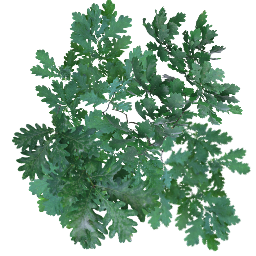
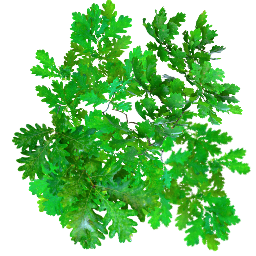
Текстурировал дерево

diff --git a/client/src/app/services/dream-map/objects/tree.ts b/client/src/app/services/dream-map/objects/tree.ts
@@ -6,7 +6,7 @@ import { TreeGeometry, TreeGeometryParams } from "@_models/three.js/tree.geometr
 import { DreamMapAlphaFogService } from "@_services/dream-map/alphaFog.service";
 import { DreamMapObjectTemplate } from "@_services/dream-map/objects/_base";
 import { NoizeShader } from "@_services/dream-map/shaders/noise";
-import { BufferGeometry, Clock, Color, DataTexture, DoubleSide, Float32BufferAttribute, FrontSide, Matrix4, Mesh, MeshLambertMaterial, MeshPhongMaterial, Object3D, PlaneGeometry, Ray, Shader, Texture, TextureLoader, Triangle, Vector3 } from "three";
+import { BufferGeometry, Clock, Color, DataTexture, DoubleSide, Float32BufferAttribute, FrontSide, LinearMipMapNearestFilter, Matrix4, Mesh, MeshStandardMaterial, Object3D, PlaneGeometry, Ray, Shader, sRGBEncoding, TangentSpaceNormalMap, Texture, TextureLoader, Triangle, Vector2, Vector3 } from "three";
 
 
 
@@ -25,8 +25,14 @@ export class DreamMapTreeObject extends DreamMapObjectTemplate implements DreamM
 
 
   private type: string = "tree";
-  private subType: string;
   private defaultMatrix: Matrix4 = new Matrix4();
+  private textureKeys: [keyof MeshStandardMaterial, string][] = [
+    ["map", "face"],
+    ["aoMap", "ao"],
+    ["lightMap", "light"],
+    ["normalMap", "normal"],
+    ["displacementMap", "displacement"]
+  ];
 
   private treeCount: number = 0;
   private leafCount: number = 0;
@@ -219,29 +225,48 @@ export class DreamMapTreeObject extends DreamMapObjectTemplate implements DreamM
     // Определить параметры
     else {
       const textureLoader: TextureLoader = new TextureLoader();
+      const textureData: (texture: Texture) => void = (texture: Texture) => {
+        texture.encoding = sRGBEncoding;
+        texture.minFilter = LinearMipMapNearestFilter;
+        texture.magFilter = LinearMipMapNearestFilter;
+      }
       // Параметры геометрии
       const objWidth: number = MathRound(this.width * this.widthPart, 4);
       const objHeight: number = MathRound((this.height * DreamCeilSize) * this.heightPart, 4);
       const leafSize: number = objWidth * 12;
       // Данные фигуры
       const treeGeometry: TreeGeometry[] = CreateArray(this.treeCount).map(() => new TreeGeometry(treeGeometryParams(objWidth, objHeight)));
-      const leafGeometry: PlaneGeometry = new PlaneGeometry(leafSize, leafSize, 1, 1);
-      const treeTexture: Texture = textureLoader.load("/assets/dream-map/object/tree/face/1-0.jpg");
-      const leafTexture: Texture = textureLoader.load("/assets/dream-map/object/tree/face/1-1.png");
-      const treeMaterial: MeshLambertMaterial = this.alphaFogService.getMaterial(new MeshLambertMaterial({
+      const leafGeometry: PlaneGeometry = new PlaneGeometry(leafSize, leafSize, 2, 2);
+      const treeTextures: CustomObjectKey<keyof MeshStandardMaterial, Texture> = this.textureKeys
+        .map(([key, path]) => ([key, textureLoader.load("/assets/dream-map/object/tree/" + path + "/1-0.jpg", textureData)]))
+        .reduce((o, [key, texture]) => ({ ...o, [key as keyof MeshStandardMaterial]: texture as Texture }), {});
+      const leafTextures: CustomObjectKey<keyof MeshStandardMaterial, Texture> = this.textureKeys
+        .map(([key, path]) => ([key, textureLoader.load("/assets/dream-map/object/tree/" + path + "/1-1.png", textureData)]))
+        .reduce((o, [key, texture]) => ({ ...o, [key as keyof MeshStandardMaterial]: texture as Texture }), {});
+      const treeMaterial: MeshStandardMaterial = this.alphaFogService.getMaterial(new MeshStandardMaterial({
         fog: true,
         side: FrontSide,
-        map: treeTexture
-      })) as MeshLambertMaterial;
-      const leafMaterial: MeshPhongMaterial = this.alphaFogService.getMaterial(new MeshPhongMaterial({
+        ...treeTextures,
+        aoMapIntensity: 0.5,
+        lightMapIntensity: 10,
+        roughness: 0.8,
+        normalMapType: TangentSpaceNormalMap,
+        normalScale: new Vector2(1, 1)
+      })) as MeshStandardMaterial;
+      const leafMaterial: MeshStandardMaterial = this.alphaFogService.getMaterial(new MeshStandardMaterial({
         fog: true,
         side: DoubleSide,
-        map: leafTexture,
         transparent: true,
-        alphaTest: 0.5,
-        aoMapIntensity: -5,
-        flatShading: true
-      })) as MeshPhongMaterial;
+        alphaTest: 0.7,
+        flatShading: true,
+        ...leafTextures,
+        aoMapIntensity: -0.5,
+        lightMapIntensity: 10,
+        roughness: 0.8,
+        normalMapType: TangentSpaceNormalMap,
+        normalScale: new Vector2(1, 1),
+        displacementScale: leafSize / 4
+      })) as MeshStandardMaterial;
       // Параметры
       const terrainGeometry: PlaneGeometry = this.terrain.geometry as PlaneGeometry;
       const quality: number = (terrainGeometry.parameters.widthSegments / terrainGeometry.parameters.width) + 1;
@@ -271,6 +296,8 @@ export class DreamMapTreeObject extends DreamMapObjectTemplate implements DreamM
       const ray: Ray = new Ray();
       const intersect: Vector3 = new Vector3();
       const leafItterator: number[] = CreateArray(this.leafCount);
+      // Настройки
+      leafGeometry.setAttribute("uv2", leafGeometry.getAttribute("uv"));
       // Запомнить параметры
       this.params = {
         objWidth,
@@ -285,8 +312,8 @@ export class DreamMapTreeObject extends DreamMapObjectTemplate implements DreamM
           leaf: leafMaterial
         },
         texture: {
-          tree: treeTexture,
-          leaf: leafTexture
+          tree: treeTextures,
+          leaf: leafTextures
         },
         terrainGeometry,
         oWidth,
@@ -514,12 +541,12 @@ interface Params {
     leaf: PlaneGeometry
   };
   material: {
-    tree: MeshLambertMaterial,
-    leaf: MeshPhongMaterial
+    tree: MeshStandardMaterial,
+    leaf: MeshStandardMaterial
   };
   texture: {
-    tree: Texture;
-    leaf: Texture;
+    tree: CustomObjectKey<keyof MeshStandardMaterial, Texture>;
+    leaf: CustomObjectKey<keyof MeshStandardMaterial, Texture>;
   };
   terrainGeometry: PlaneGeometry;
   oWidth: number;
